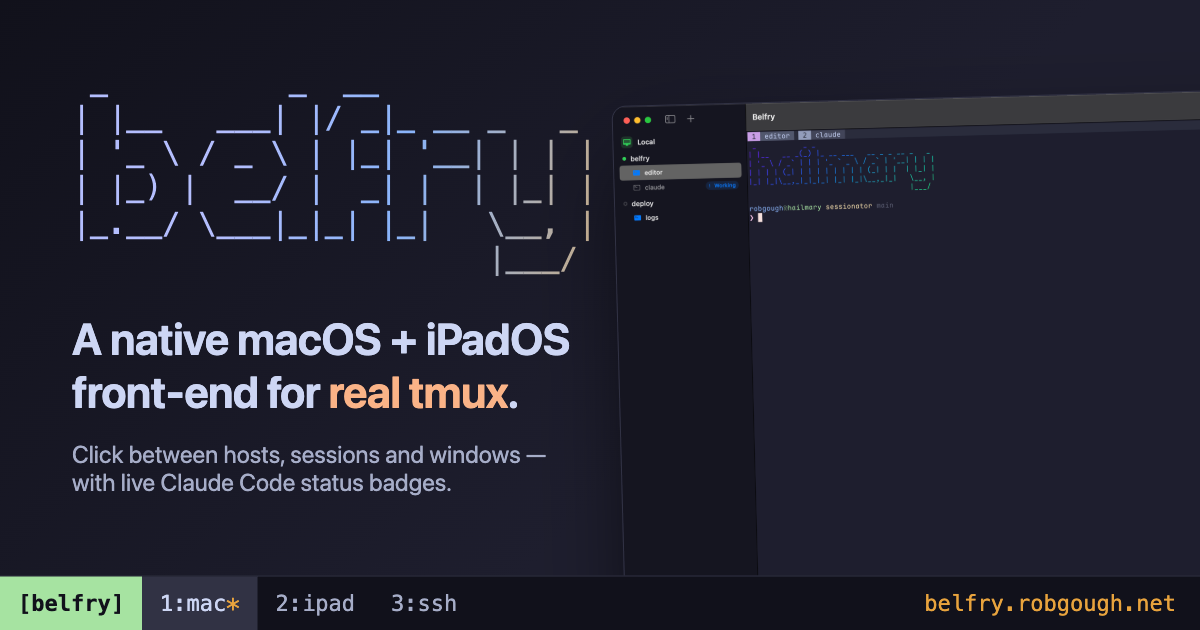
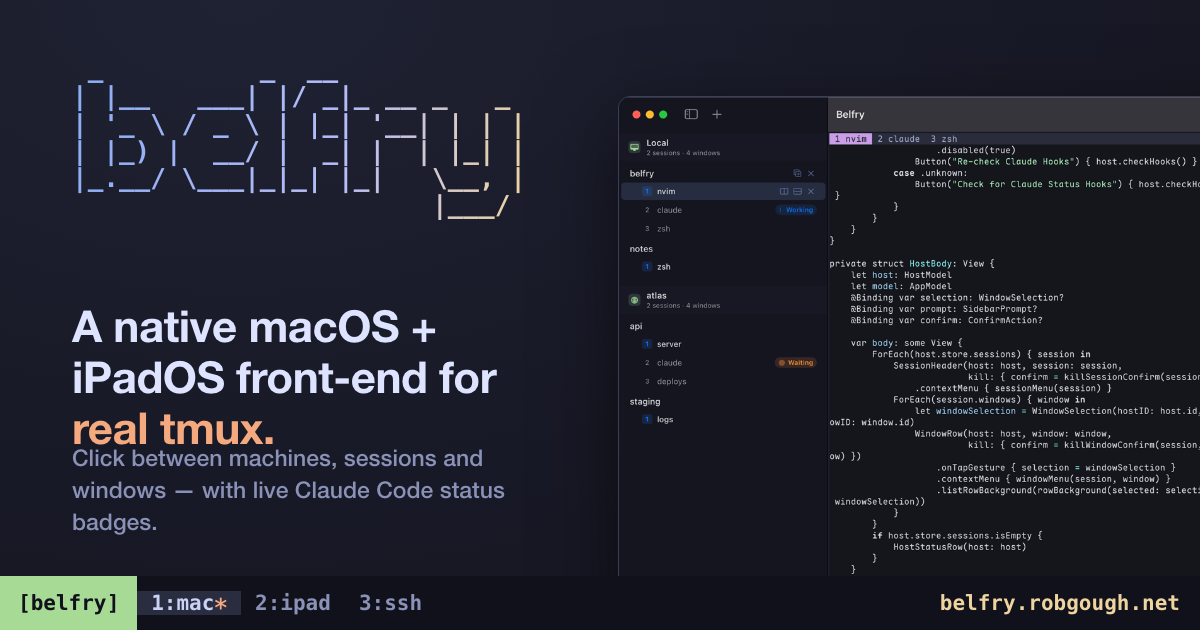
Site: fresh screenshots with staged demo data (no real hostnames)
New macOS hero shot from an isolated demo instance (fake HOME +
TMUX_TMPDIR servers, fake "atlas" SSH host via a temporary
forced-command key): two machines with the new sidebar — bands, counts,
index chips, hover split actions — Working/Waiting Claude badges, and a
split terminal showing nvim beside a passing test run. The old shots
showed the real machine name; everything visible is now staged.

og.png is regenerated from the new hero via docs/og.html, a checked-in
1200x630 generator (headless Chrome --screenshot) replicating the card
design, so future updates don't start from scratch.

Claude-Session: https://claude.ai/code/session_01RHWv6ccUfu4nK3yiGB4ocZ

diff --git a/docs/og.html b/docs/og.html
@@ -1,0 +1,82 @@
+<!doctype html>
+<!-- OpenGraph card generator: render at exactly 1200x630 (DPR 1) and
+     screenshot to images/og.png. The screenshot it embeds is the same
+     images/macos.png the landing page uses. -->
+<html lang="en">
+<head>
+<meta charset="utf-8">
+<style>
+  :root {
+    --bg: #181926; --panel: #1e2030; --text: #cad3f5; --muted: #8b92b8;
+    --green: #a6da95; --orange: #f5a97f; --yellow: #eed49f;
+    --blue: #8aadf4; --lavender: #b7bdf8; --crust: #11111b;
+  }
+  * { margin: 0; padding: 0; box-sizing: border-box; }
+  body {
+    width: 1200px; height: 630px; overflow: hidden; position: relative;
+    background: radial-gradient(120% 140% at 20% 0%, #1f2233 0%, var(--bg) 55%, #14151f 100%);
+    font-family: "SF Pro Display", -apple-system, "Helvetica Neue", sans-serif;
+    color: var(--text);
+  }
+  .banner {
+    position: absolute; top: 56px; left: 72px;
+    font: 700 26px/1.05 "SF Mono", ui-monospace, Menlo, monospace;
+    white-space: pre;
+    background: linear-gradient(100deg, var(--blue) 0%, var(--lavender) 60%, var(--yellow) 100%);
+    -webkit-background-clip: text; background-clip: text; color: transparent;
+  }
+  .tagline {
+    position: absolute; top: 300px; left: 72px; width: 500px;
+    font-size: 44px; font-weight: 800; line-height: 1.16; letter-spacing: -0.5px;
+    color: #dee4ff;
+  }
+  .tagline .tmux { color: var(--orange); }
+  .sub {
+    position: absolute; top: 442px; left: 72px; width: 470px;
+    font-size: 23px; line-height: 1.4; color: var(--muted); font-weight: 500;
+  }
+  .shot {
+    position: absolute; top: 96px; left: 618px; width: 1010px;
+    border-radius: 12px; border: 1px solid #3a3f58;
+    box-shadow: 0 24px 80px rgba(0,0,0,0.55);
+    overflow: hidden;
+  }
+  .shot img { display: block; width: 100%; }
+  .statusbar {
+    position: absolute; bottom: 0; left: 0; right: 0; height: 54px;
+    background: var(--crust); display: flex; align-items: center;
+    font: 600 21px "SF Mono", ui-monospace, Menlo, monospace;
+  }
+  .statusbar .name {
+    background: var(--green); color: var(--crust);
+    padding: 0 18px; height: 100%; display: flex; align-items: center;
+  }
+  .statusbar .win { padding: 0 14px; color: var(--muted); }
+  .statusbar .win.active { background: #2a2d40; color: var(--text); }
+  .statusbar .win.active .star { color: var(--orange); }
+  .statusbar .url { margin-left: auto; padding: 0 20px; color: var(--yellow); }
+</style>
+</head>
+<body>
+  <pre class="banner">
+ _          _  __
+| |__   ___| |/ _|_ __ _   _
+| '_ \ / _ \ | |_| '__| | | |
+| |_) |  __/ |  _| |  | |_| |
+|_.__/ \___|_|_| |_|   \__, |
+                       |___/ </pre>
+
+  <div class="tagline">A native macOS&nbsp;+ iPadOS front-end for <span class="tmux">real tmux.</span></div>
+  <div class="sub">Click between machines, sessions and windows — with live Claude Code status badges.</div>
+
+  <div class="shot"><img src="images/macos.png" alt=""></div>
+
+  <nav class="statusbar">
+    <span class="name">[belfry]</span>
+    <span class="win active">1:mac<span class="star">*</span></span>
+    <span class="win">2:ipad</span>
+    <span class="win">3:ssh</span>
+    <span class="url">belfry.robgough.net</span>
+  </nav>
+</body>
+</html>

diff --git a/docs/index.html b/docs/index.html
@@ -263,7 +263,7 @@
     <h2><span class="idx">1:</span>overview</h2>
     <div class="shots">
       <figure>
-        <img src="images/macos.png" alt="Belfry on macOS: a sidebar of hosts, sessions and windows next to a live libghostty terminal, with a Working badge on a claude window" width="1600" height="1393">
+        <img src="images/macos.png" alt="Belfry on macOS: two machines in the sidebar — Local and an SSH host — with sessions and windows beneath, Working and Waiting badges on claude windows, and a live split terminal showing nvim beside a passing test run" width="1600" height="944">
         <figcaption>macOS — libghostty surfaces, your Ghostty theme picked up automatically</figcaption>
       </figure>
       <figure>